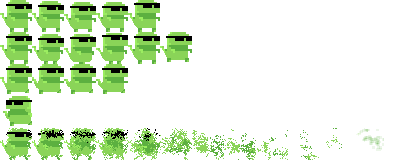
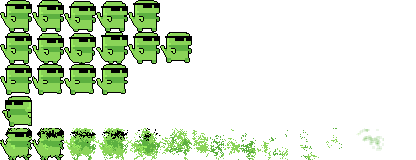
player running movement and direction is animated now with sprites

diff --git a/src/classes/SpriteSheet.js b/src/classes/SpriteSheet.js
@@ -4,15 +4,23 @@ export class SpriteSheet {
     this.width = width
     this.height = height
     this.tiles = new Map()
+    this.flippedTiles = new Map()
   }
 
   defineBuffer(x, y) {
-    const buffer = document.createElement('canvas')
-    buffer.width = this.width
-    buffer.height = this.height
-    buffer
-      .getContext('2d')
-      .drawImage(
+    const buffers = [false, true].map((flip) => {
+      const buffer = document.createElement('canvas')
+      buffer.width = this.width
+      buffer.height = this.height
+
+      const context = buffer.getContext('2d')
+
+      if (flip) {
+        context.scale(-1, 1)
+        context.translate(-this.width, 0)
+      }
+
+      context.drawImage(
         this.image,
         x * this.width,
         y * this.height,
@@ -24,42 +32,57 @@ export class SpriteSheet {
         this.height
       )
 
-    return buffer
+      return buffer
+    })
+    return buffers
   }
 
   // define current sprite at (x,y) of the spritesheet
   define(name, x, y) {
-    const buffer = this.defineBuffer(x, y)
-    this.tiles.set(name, buffer)
+    const buffers = this.defineBuffer(x, y)
+    this.tiles.set(name, buffers[0])
+    this.flippedTiles.set(name, buffers[0])
   }
 
   defineState(name, range) {
     const [row, len] = range
     for (let col = 0; col < len; col++) {
-      console.log(row, col, name)
-      const currentBuffer = this.defineBuffer(col, row)
+      // console.log(row, col, name)
+      const [currentBuffer, currentFlippedBuffer] = this.defineBuffer(col, row)
       if (this.tiles.has(name)) {
-        let val = this.tiles.get(name)
-        val.push(currentBuffer)
-        this.tiles.set(name, val)
+        let buf = this.tiles.get(name)
+        buf.push(currentBuffer)
+        this.tiles.set(name, buf)
+
+        let flippedBuf = this.flippedTiles.get(name)
+        flippedBuf.push(currentFlippedBuffer)
+        this.flippedTiles.set(name, flippedBuf)
       } else {
         this.tiles.set(name, [currentBuffer])
+        this.flippedTiles.set(name, [currentFlippedBuffer])
       }
     }
   }
 
   // draw the sprite on 'context' at (x,y)
-  draw(name, context, x, y) {
-    const buffer = this.tiles.get(name)
-    context.drawImage(buffer, x, y)
+  drawTile(name, context, x, y, flip = false) {
+    let buffer
+    if (flip) {
+      buffer = this.flippedTiles.get(name)
+    } else {
+      buffer = this.tiles.get(name)
+    }
+    context.drawImage(buffer, x * this.width, y * this.height)
   }
 
-  drawFrames(name, context, x, y) {
-    const buffers = this.tiles.get(name)
-    context.drawImage(buffers[3], x * this.width, y * this.height)
-  }
-
-  drawTile(name, context, x, y) {
-    this.draw(name, context, x * this.width, y * this.height)
+  // draw the animation sprite on 'context' at (x,y) index
+  drawFrames(name, context, frameNo, x, y, flip) {
+    let buffers
+    if (flip) {
+      buffers = this.flippedTiles.get(name)
+    } else {
+      buffers = this.tiles.get(name)
+    }
+    context.drawImage(buffers[frameNo], x * this.width, y * this.height)
   }
 }

diff --git a/src/functions/layers.js b/src/functions/layers.js
@@ -8,28 +8,27 @@ export const createBackgroundLayer = (map, sprites) => {
 
   const ctx = buffer.getContext('2d')
 
-  let startIndex, endIndex
+  const redraw = (startXIndex, endXIndex, startYIndex, endYIndex) => {
+    for (let x = startXIndex; x <= endXIndex; x++) {
+      for (let y = startYIndex; y <= endYIndex; y++) {
+        const col = tiles.grid[x]
+        if (!col) continue
+        const tile = col[y]
+        if (!tile) continue
 
-  const redraw = (drawFrom, drawTo) => {
-    if (drawFrom === startIndex && drawTo === endIndex) return
-    startIndex = drawFrom
-    endIndex = drawTo
-    console.log('redrawing')
-    for (let x = startIndex; x <= endIndex; x++) {
-      const col = tiles.grid[x]
-      if (col) {
-        col.forEach((tile, y) => {
-          sprites.drawTile(tile.name, ctx, x, y)
-        })
+        sprites.drawTile(tile.name, ctx, x, y)
       }
     }
   }
 
   return function drawBackgroundLayer(context, camera) {
     const drawWidth = resolver.toIndex(camera.size.x)
-    const drawFrom = resolver.toIndex(camera.pos.x)
-    const drawTo = drawFrom + drawWidth
-    redraw(drawFrom, drawTo)
+    const drawHeight = resolver.toIndex(camera.size.y)
+    const drawXFrom = resolver.toIndex(camera.pos.x)
+    const drawXTo = drawXFrom + drawWidth
+    const drawYFrom = resolver.toIndex(camera.pos.y)
+    const drawYTo = drawYFrom + drawHeight
+    redraw(drawXFrom, drawXTo, drawYFrom, drawYTo)
 
     context.drawImage(buffer, -camera.pos.x, -camera.pos.y)
   }

diff --git a/src/functions/entities.js b/src/functions/entities.js
@@ -2,6 +2,7 @@ import Entity from '../classes/Entity'
 import { Jump } from '../classes/traits/Jump'
 import { Run } from '../classes/traits/run'
 import { loadCharacterSpriteSheet } from './loader'
+import { createAnime } from './anime'
 
 export const createPlayer = async () => {
   const sprite = await loadCharacterSpriteSheet('trex')
@@ -10,8 +11,22 @@ export const createPlayer = async () => {
 
   player.addTrait(new Run())
   player.addTrait(new Jump())
+
+  const frames = sprite.tiles.get('run')
+  const runAnime = createAnime(frames, 10)
+
+  const routeFrame = (player) => {
+    if (player.run.direction !== 0) {
+      return runAnime(player.run.distance)
+    }
+
+    return ['idle', 0]
+  }
+
   player.draw = function drawPlayer(context) {
-    sprite.drawFrames('idle', context, 0, 0)
+    const [state, frameIndex] = routeFrame(this)
+    const flip = player.run.heading < 0
+    sprite.drawFrames(state, context, frameIndex, 0, 0, flip)
   }
   return player
 }

diff --git a/src/classes/traits/run.js b/src/classes/traits/run.js
@@ -5,9 +5,15 @@ export class Run extends Trait {
     super('run')
     this.direction = 0
     this.speed = 20000
+    this.distance = 0
+    this.heading = 1
   }
 
   update(entity, deltaTime) {
     entity.vel.x = this.speed * this.direction * deltaTime
+    if (this.direction) {
+      this.heading = this.direction
+      this.distance += Math.abs(entity.vel.x) * deltaTime
+    } else this.distance = 0
   }
 }

diff --git a/src/App.js b/src/App.js
@@ -38,7 +38,8 @@ function App() {
     player.pos.set(200, 0)
     map.entities.add(player)
 
-    map.comp.layers.push(createCollisionLayer(map), createCameraLayer(camera))
+    // debug layers
+    // map.comp.layers.push(createCollisionLayer(map), createCameraLayer(camera))
 
     const input = setupKeyboard(player)
     const mouse = setupMouse(canvas, player, camera)

diff --git a/src/classes/Entity.js b/src/classes/Entity.js
@@ -15,6 +15,7 @@ export default class Entity {
     this.pos = new Vector(0, 0)
     this.vel = new Vector(0, 0)
     this.size = new Vector(0, 0)
+    this.totalTime = 0
 
     this.traits = []
   }
@@ -28,5 +29,7 @@ export default class Entity {
     this.traits.forEach((trait) => {
       trait.update(this, deltaTime)
     })
+
+    this.totalTime += deltaTime
   }
 }

diff --git a/src/classes/Map.js b/src/classes/Map.js
@@ -5,6 +5,7 @@ import TileCollider from './TileCollider'
 export class Map {
   constructor() {
     this.gravity = 2000
+    this.totalTime = 0
 
     this.comp = new Compositor()
     this.entities = new Set()
@@ -24,5 +25,7 @@ export class Map {
 
       entity.vel.y += this.gravity * deltaTime
     })
+
+    this.totalTime += deltaTime
   }
 }

diff --git a/src/classes/Timer.js b/src/classes/Timer.js
@@ -5,6 +5,10 @@ export default class Timer {
 
     this.updateProxy = (time) => {
       accumulatedTime += (time - lastTime) / 1000
+
+      if (accumulatedTime > 1) {
+        accumulatedTime = 1
+      }
       while (accumulatedTime > deltaTime) {
         // update an entity
         this.update(deltaTime)

diff --git a/public/index.html b/public/index.html
@@ -11,7 +11,7 @@
     />
     <link rel="apple-touch-icon" href="%PUBLIC_URL%/logo192.png" />
     <link rel="manifest" href="%PUBLIC_URL%/manifest.json" />
-    <title>Ultimate Chainsaw</title>
+    <title>Ultimate Chicken Horse</title>
   </head>
   <body>
     <div id="root"></div>

diff --git a/src/functions/anime.js b/src/functions/anime.js
@@ -1,0 +1,6 @@
+export const createAnime = (frames, frameLen = 10) => {
+  return function resolveFrame(distance) {
+    const frameIndex = Math.floor((distance / frameLen) % frames.length)
+    return ['run', frameIndex]
+  }
+}

diff --git a/src/classes/Camera.js b/src/classes/Camera.js
@@ -3,6 +3,6 @@ import { Vector } from './Math'
 export default class Camera {
   constructor() {
     this.pos = new Vector(0, 0)
-    this.size = new Vector(700, 630)
+    this.size = new Vector(1300, 640)
   }
 }
